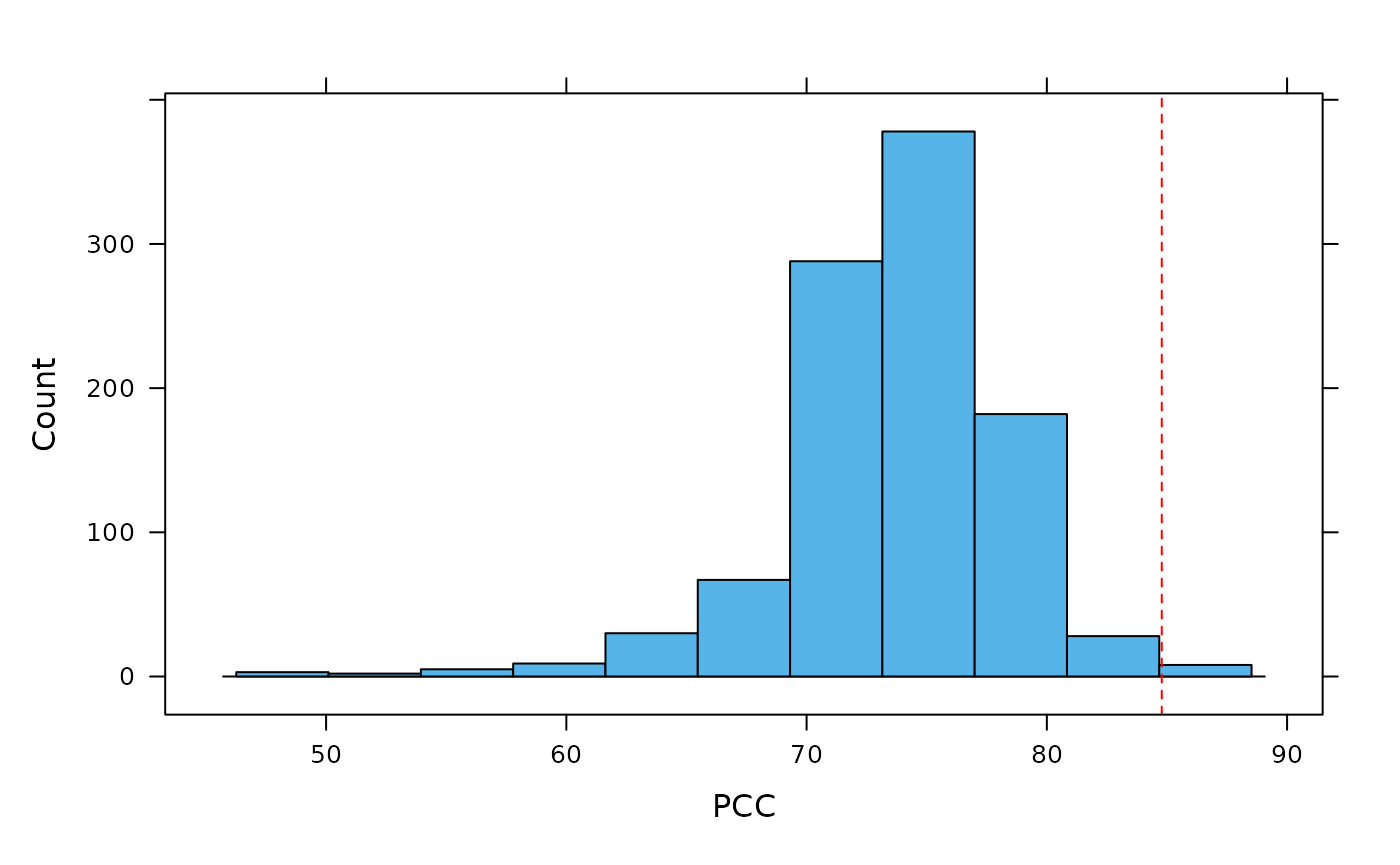
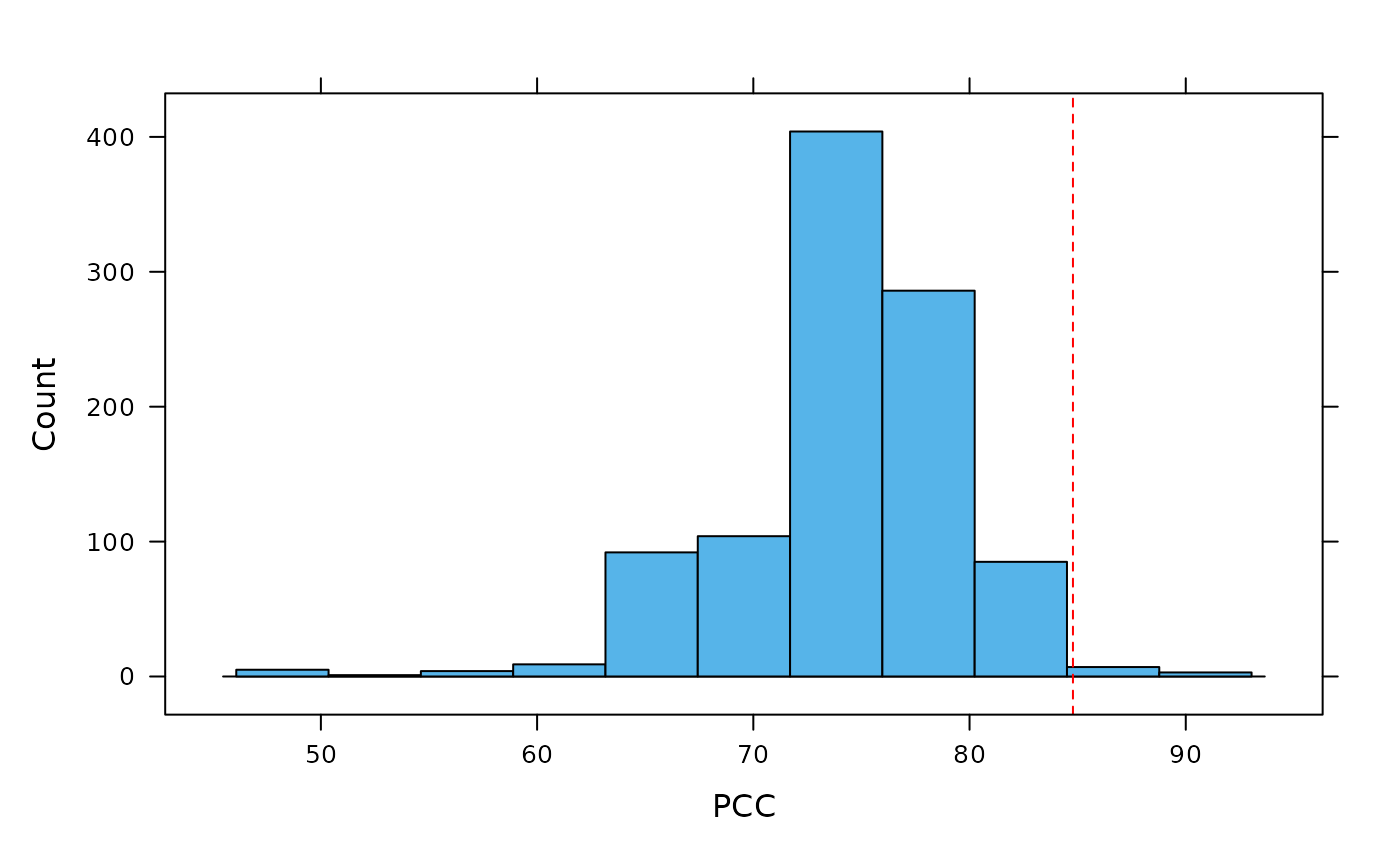
Deploying to gh-pages from @ timbeechey/clubpro@88b70e76ba23475d53fb8d2dc9936c216a33e19d 🚀

diff --git a/index.html b/index.html
@@ -111,53 +111,26 @@
 <p>Print a summary of the model output.</p>
 <div class="sourceCode" id="cb7"><pre class="downlit sourceCode r">
 <code class="sourceCode R"><span><span class="fu"><a href="https://rdrr.io/r/base/summary.html" class="external-link">summary</a></span><span class="op">(</span><span class="va">mod</span><span class="op">)</span></span>
-<span><span class="co">#&gt; ********** Classification Results **********</span></span>
-<span><span class="co">#&gt; Observations: 30 </span></span>
-<span><span class="co">#&gt; Missing observations: 0 </span></span>
-<span><span class="co">#&gt; Target groups: 3 </span></span>
-<span><span class="co">#&gt; Correctly classified observations: 15 </span></span>
-<span><span class="co">#&gt; Incorrectly classified observations: 7 </span></span>
-<span><span class="co">#&gt; Ambiguously classified observations: 8 </span></span>
-<span><span class="co">#&gt; PCC: 50 </span></span>
-<span><span class="co">#&gt; Median classification strength index: 0.74 </span></span>
 <span><span class="co">#&gt; </span></span>
-<span><span class="co">#&gt; ********** Randomisation Test **********</span></span>
-<span><span class="co">#&gt; Random reorderings: 1000 </span></span>
-<span><span class="co">#&gt; Minimum random PCC: 20 </span></span>
-<span><span class="co">#&gt; Maximum random PCC: 80 </span></span>
-<span><span class="co">#&gt; Chance-value: 0.92 </span></span>
+<span><span class="co">#&gt; ── Model Summary ───────────────────────────────────────────────────────────────</span></span>
 <span><span class="co">#&gt; </span></span>
-<span><span class="co">#&gt;    individual observation target prediction  accuracy  csi</span></span>
-<span><span class="co">#&gt; 1           1          39    SFR Before|SFR ambiguous 0.68</span></span>
-<span><span class="co">#&gt; 2           2          25    SFR        SFR   correct 1.00</span></span>
-<span><span class="co">#&gt; 3           3          37    SFR     Meshed incorrect 0.62</span></span>
-<span><span class="co">#&gt; 4           4          25    SFR        SFR   correct 1.00</span></span>
-<span><span class="co">#&gt; 5           5          29    SFR        SFR   correct 1.00</span></span>
-<span><span class="co">#&gt; 6           6          39    SFR Before|SFR ambiguous 0.68</span></span>
-<span><span class="co">#&gt; 7           7          21    SFR        SFR   correct 1.00</span></span>
-<span><span class="co">#&gt; 8           8          39    SFR Before|SFR ambiguous 0.68</span></span>
-<span><span class="co">#&gt; 9           9          24    SFR Before|SFR ambiguous 0.71</span></span>
-<span><span class="co">#&gt; 10         10          25    SFR        SFR   correct 1.00</span></span>
-<span><span class="co">#&gt; 11         11          40 Before     Before   correct 0.80</span></span>
-<span><span class="co">#&gt; 12         12          38 Before     Meshed incorrect 0.74</span></span>
-<span><span class="co">#&gt; 13         13          39 Before Before|SFR ambiguous 0.68</span></span>
-<span><span class="co">#&gt; 14         14          37 Before     Meshed incorrect 0.62</span></span>
-<span><span class="co">#&gt; 15         15          39 Before Before|SFR ambiguous 0.68</span></span>
-<span><span class="co">#&gt; 16         16          24 Before Before|SFR ambiguous 0.71</span></span>
-<span><span class="co">#&gt; 17         17          30 Before     Meshed incorrect 0.74</span></span>
-<span><span class="co">#&gt; 18         18          39 Before Before|SFR ambiguous 0.68</span></span>
-<span><span class="co">#&gt; 19         19          40 Before     Before   correct 0.80</span></span>
-<span><span class="co">#&gt; 20         20          40 Before     Before   correct 0.80</span></span>
-<span><span class="co">#&gt; 21         21          40 Meshed     Before incorrect 0.80</span></span>
-<span><span class="co">#&gt; 22         22          39 Meshed Before|SFR incorrect 0.68</span></span>
-<span><span class="co">#&gt; 23         23          34 Meshed     Meshed   correct 1.00</span></span>
-<span><span class="co">#&gt; 24         24          37 Meshed     Meshed   correct 0.62</span></span>
-<span><span class="co">#&gt; 25         25          40 Meshed     Before incorrect 0.80</span></span>
-<span><span class="co">#&gt; 26         26          36 Meshed     Meshed   correct 1.00</span></span>
-<span><span class="co">#&gt; 27         27          36 Meshed     Meshed   correct 1.00</span></span>
-<span><span class="co">#&gt; 28         28          38 Meshed     Meshed   correct 0.74</span></span>
-<span><span class="co">#&gt; 29         29          36 Meshed     Meshed   correct 1.00</span></span>
-<span><span class="co">#&gt; 30         30          30 Meshed     Meshed   correct 0.74</span></span></code></pre></div>
+<span><span class="co">#&gt; ── Classification Results ──</span></span>
+<span><span class="co">#&gt; </span></span>
+<span><span class="co">#&gt; Observations: 30</span></span>
+<span><span class="co">#&gt; Missing observations: 0</span></span>
+<span><span class="co">#&gt; Target groups: 3</span></span>
+<span><span class="co">#&gt; Correctly classified observations: 15</span></span>
+<span><span class="co">#&gt; Incorrectly classified observations: 7</span></span>
+<span><span class="co">#&gt; Ambiguously classified observations: 8</span></span>
+<span><span class="co">#&gt; PCC: 50</span></span>
+<span><span class="co">#&gt; Median classification strength index: 0.74</span></span>
+<span><span class="co">#&gt; </span></span>
+<span><span class="co">#&gt; ── Randomisation Test Results ──</span></span>
+<span><span class="co">#&gt; </span></span>
+<span><span class="co">#&gt; Random reorderings: 1000</span></span>
+<span><span class="co">#&gt; Minimum random PCC: 26.67</span></span>
+<span><span class="co">#&gt; Maximum random PCC: 80</span></span>
+<span><span class="co">#&gt; Chance-value: 0.9</span></span></code></pre></div>
 <p>Plot the classification results.</p>
 <div class="sourceCode" id="cb8"><pre class="downlit sourceCode r">
 <code class="sourceCode R"><span><span class="fu"><a href="https://rdrr.io/r/graphics/plot.default.html" class="external-link">plot</a></span><span class="op">(</span><span class="va">mod</span><span class="op">)</span></span></code></pre></div>

diff --git a/articles/clubpro.html b/articles/clubpro.html
@@ -101,7 +101,7 @@
 <span><span class="co">#&gt; </span></span>
 <span><span class="co">#&gt; Random reorderings: <span style="color: #0000BB;">1000</span></span></span>
 <span><span class="co">#&gt; Minimum random PCC: <span style="color: #0000BB;">47.83</span></span></span>
-<span><span class="co">#&gt; Maximum random PCC: <span style="color: #0000BB;">86.96</span></span></span>
+<span><span class="co">#&gt; Maximum random PCC: <span style="color: #0000BB;">91.3</span></span></span>
 <span><span class="co">#&gt; Chance-value: <span style="color: #0000BB;">0.01</span></span></span></code></pre></div>
 <div class="sourceCode" id="cb4"><pre class="downlit sourceCode r">
 <code class="sourceCode R"><span><span class="fu"><a href="https://rdrr.io/r/graphics/plot.default.html" class="external-link">plot</a></span><span class="op">(</span><span class="va">mod</span><span class="op">)</span></span></code></pre></div>
@@ -124,7 +124,7 @@
 <span><span class="co">#&gt; [1] 84.78261</span></span></code></pre></div>
 <div class="sourceCode" id="cb8"><pre class="downlit sourceCode r">
 <code class="sourceCode R"><span><span class="fu"><a href="../reference/cval.html">cval</a></span><span class="op">(</span><span class="va">mod</span><span class="op">)</span></span>
-<span><span class="co">#&gt; [1] 0.008</span></span></code></pre></div>
+<span><span class="co">#&gt; [1] 0.01</span></span></code></pre></div>
 <div class="sourceCode" id="cb9"><pre class="downlit sourceCode r">
 <code class="sourceCode R"><span><span class="fu"><a href="https://rdrr.io/r/graphics/plot.default.html" class="external-link">plot</a></span><span class="op">(</span><span class="fu"><a href="../reference/pcc_replicates.html">pcc_replicates</a></span><span class="op">(</span><span class="va">mod</span><span class="op">)</span><span class="op">)</span></span></code></pre></div>
 <p><img src="clubpro_files/figure-html/plot_cval_dist-1.png" width="700"></p>

diff --git a/reference/pcc_replicates.html b/reference/pcc_replicates.html
@@ -80,12 +80,12 @@ calculate the chance-value.</p>
     <div class="sourceCode"><pre class="sourceCode r"><code><span class="r-in"><span><span class="va">mod</span> <span class="op">&lt;-</span> <span class="fu"><a href="club.html">club</a></span><span class="op">(</span><span class="va">rate</span> <span class="op">~</span> <span class="va">dose</span>, data <span class="op">=</span> <span class="va">caffeine</span><span class="op">)</span></span></span>
 <span class="r-in"><span><span class="fu"><a href="https://rdrr.io/r/utils/head.html" class="external-link">head</a></span><span class="op">(</span><span class="fu">pcc_replicates</span><span class="op">(</span><span class="va">mod</span><span class="op">)</span><span class="op">)</span></span></span>
 <span class="r-out co"><span class="r-pr">#&gt;</span>          [,1]</span>
-<span class="r-out co"><span class="r-pr">#&gt;</span> [1,] 53.33333</span>
-<span class="r-out co"><span class="r-pr">#&gt;</span> [2,] 63.33333</span>
-<span class="r-out co"><span class="r-pr">#&gt;</span> [3,] 63.33333</span>
-<span class="r-out co"><span class="r-pr">#&gt;</span> [4,] 70.00000</span>
-<span class="r-out co"><span class="r-pr">#&gt;</span> [5,] 66.66667</span>
-<span class="r-out co"><span class="r-pr">#&gt;</span> [6,] 53.33333</span>
+<span class="r-out co"><span class="r-pr">#&gt;</span> [1,] 66.66667</span>
+<span class="r-out co"><span class="r-pr">#&gt;</span> [2,] 53.33333</span>
+<span class="r-out co"><span class="r-pr">#&gt;</span> [3,] 56.66667</span>
+<span class="r-out co"><span class="r-pr">#&gt;</span> [4,] 63.33333</span>
+<span class="r-out co"><span class="r-pr">#&gt;</span> [5,] 56.66667</span>
+<span class="r-out co"><span class="r-pr">#&gt;</span> [6,] 56.66667</span>
 </code></pre></div>
     </div>
   </main><aside class="col-md-3"><nav id="toc"><h2>On this page</h2>

diff --git a/reference/summary.clubprofit.html b/reference/summary.clubprofit.html
@@ -100,9 +100,9 @@
 <span class="r-msg co"><span class="r-pr">#&gt;</span> ── <span style="font-weight: bold;">Randomisation Test Results</span> ──</span>
 <span class="r-msg co"><span class="r-pr">#&gt;</span> </span>
 <span class="r-msg co"><span class="r-pr">#&gt;</span> Random reorderings: <span style="color: #0000BB;">1000</span></span>
-<span class="r-msg co"><span class="r-pr">#&gt;</span> Minimum random PCC: <span style="color: #0000BB;">30</span></span>
+<span class="r-msg co"><span class="r-pr">#&gt;</span> Minimum random PCC: <span style="color: #0000BB;">23.33</span></span>
 <span class="r-msg co"><span class="r-pr">#&gt;</span> Maximum random PCC: <span style="color: #0000BB;">76.67</span></span>
-<span class="r-msg co"><span class="r-pr">#&gt;</span> Chance-value: <span style="color: #0000BB;">0.51</span></span>
+<span class="r-msg co"><span class="r-pr">#&gt;</span> Chance-value: <span style="color: #0000BB;">0.52</span></span>
 </code></pre></div>
     </div>
   </main><aside class="col-md-3"><nav id="toc"><h2>On this page</h2>

diff --git a/reference/cval.html b/reference/cval.html
@@ -80,7 +80,7 @@ the observed data.</p>
     <h2 id="ref-examples">Examples<a class="anchor" aria-label="anchor" href="#ref-examples"></a></h2>
     <div class="sourceCode"><pre class="sourceCode r"><code><span class="r-in"><span><span class="va">mod</span> <span class="op">&lt;-</span> <span class="fu"><a href="club.html">club</a></span><span class="op">(</span><span class="va">rate</span> <span class="op">~</span> <span class="va">dose</span>, data <span class="op">=</span> <span class="va">caffeine</span><span class="op">)</span></span></span>
 <span class="r-in"><span><span class="fu">cval</span><span class="op">(</span><span class="va">mod</span><span class="op">)</span></span></span>
-<span class="r-out co"><span class="r-pr">#&gt;</span> [1] 0.504</span>
+<span class="r-out co"><span class="r-pr">#&gt;</span> [1] 0.505</span>
 </code></pre></div>
     </div>
   </main><aside class="col-md-3"><nav id="toc"><h2>On this page</h2>
